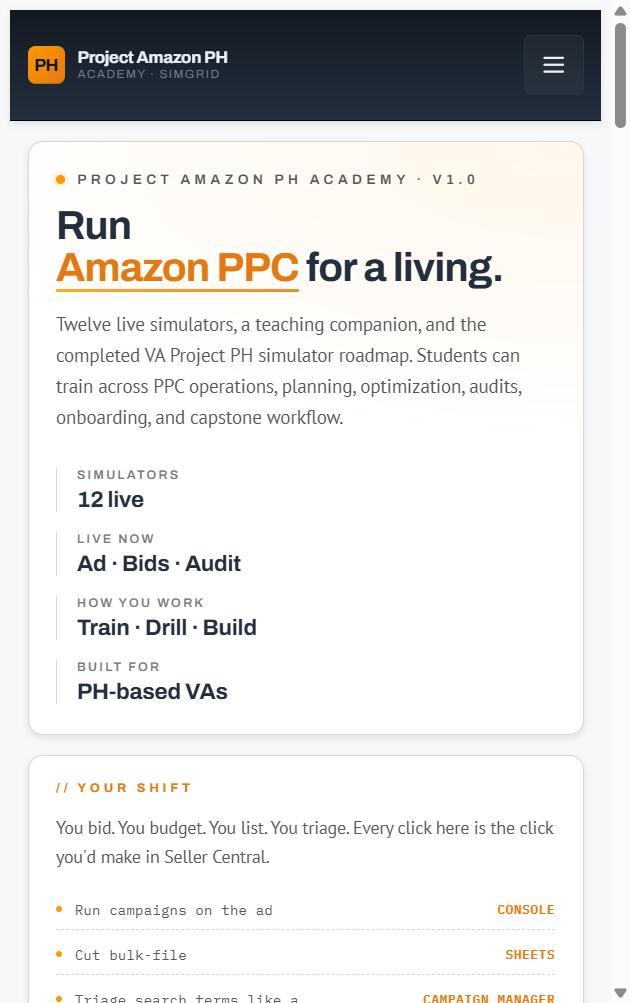
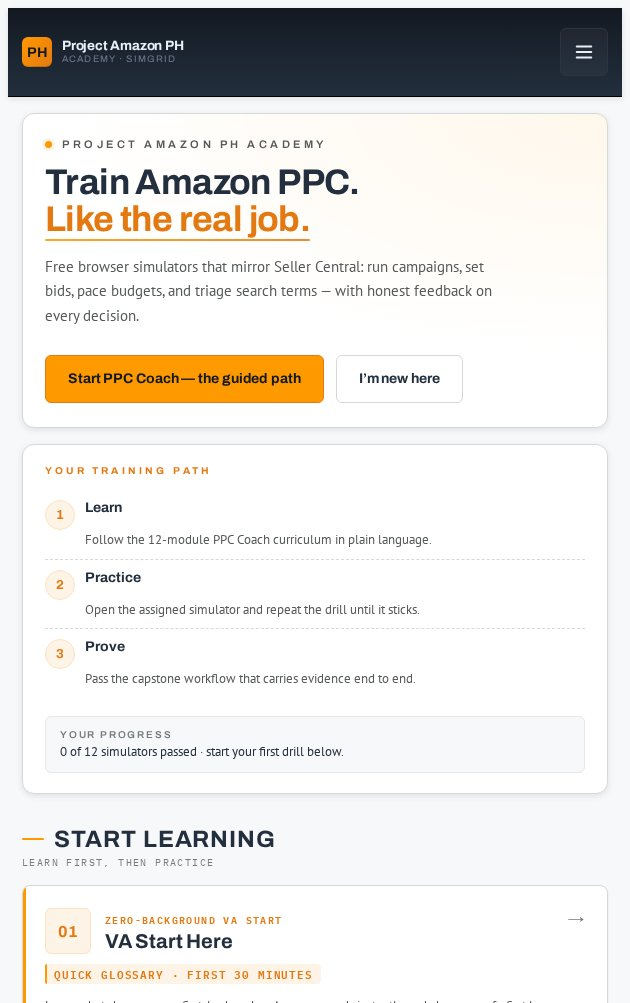
docs: refresh README for the redesigned hub, 1.2.4 installer, and current test baseline

diff --git a/README.md b/README.md
@@ -4,8 +4,8 @@ A multi-page webapp that consolidates twelve live Amazon PPC training simulators
 
 > Train the VAs who run Amazon PPC for a living.
 
-Built from the eight chat-export JSONs in `../`. The extracted simulators now share
-one design-system cascade: central brand tokens, simulator-specific layout CSS, the
+Originally extracted from chat-export prototypes; every page now shares one
+design-system cascade: central brand tokens, simulator-specific layout CSS, the
 unified skin, and the common application shell.
 
 ## Current platform status
@@ -15,7 +15,8 @@ unified skin, and the common application shell.
 - Shared versioned attempt history surfaces Not started, In progress, Passed, best score, and attempt count in Coach and the hub.
 - One tested beginner PPC policy aligns evidence bands, negatives, bid changes, and budget scaling across lessons and simulators.
 - Scenario-bank infrastructure preserves stable simulator progress while recording the selected scenario and rubric versions; Campaign Architect and Account Audit now ship selectable beginner and intermediate packs.
-- `node --test tests/*.test.cjs` is the primary regression command; the current baseline is **95 passing tests**.
+- The hub hero gives new learners one primary call to action (Start PPC Coach) and shows returning learners a live progress summary ("X of 12 simulators passed") from the shared attempt history.
+- `node --test tests/*.test.cjs` is the primary regression command; the current baseline is **338 passing tests** plus a real-browser desktop smoke gate.
 
 ## Design-system architecture
 
@@ -38,8 +39,9 @@ to persistence, escaping, progress recording, focus, reduced motion, and respons
 interaction primitives; they do not define simulator layout.
 
 The shared shell also resolves nested documentation paths, provides mobile navigation,
-maintains 44px touch targets, respects reduced-motion preferences, and inserts a
-keyboard-accessible skip link. Interactive buttons declare their behavior explicitly,
+maintains 44px touch targets and WCAG 2.5.8 minimum sizes on sliders, checkboxes,
+and links, respects reduced-motion preferences, and inserts a keyboard-accessible
+skip link. Interactive buttons declare their behavior explicitly,
 and all brand typography is delivered through the shared font tokens.
 
 ## Product context
@@ -117,7 +119,7 @@ The project is a plain static webapp and also ships as a Windows desktop app.
 
 ### Windows installer
 
-Download `SimGrid-Setup-1.0.3.exe` from the GitHub Actions artifact or the
+Download `SimGrid-Setup-1.2.4.exe` from the GitHub Actions artifact or the
 published release and run it. The installer is per-user, creates a Start Menu
 entry and desktop shortcut, and does not require administrator access by default.
 
@@ -129,8 +131,8 @@ the app.
 | Item | Detail |
 |---|---|
 | App name | Project Amazon PH Academy SimGrid |
-| Current release | `1.0.3` |
-| Installer | `SimGrid-Setup-1.0.3.exe` |
+| Current release | `1.2.4` |
+| Installer | `SimGrid-Setup-1.2.4.exe` |
 | Platform | Windows 10/11, 64-bit |
 | Install type | Per-user; administrator access is not normally required |
 | App identity | `com.projectamazonph.simgrid` |
@@ -190,21 +192,15 @@ not automatically synchronized between different computers or browser profiles.
 | SmartScreen warning | Verify the download source and file checksum; use a signed release when available. |
 | Update is not offered | Confirm the app is packaged, connected to the internet, and the new release includes `latest.yml`. |
 | Progress is missing | Confirm you are using the same Windows account and app identity; do not clear the `%APPDATA%` folder. |
-| External fonts or charts are missing | Connect to the internet; some resources are loaded from CDNs. |
+| External fonts or charts are missing | Rare: all fonts, chart, spreadsheet, and image assets are bundled locally, so the app works fully offline. Reinstall if files were removed. |
 
 ### Run from source
 
 Open the static site three ways:
 
-```powershell
-# 1. Just double-click
-explorer "D:\Web Project\Simulators\webapp\index.html"
-
-# 2. Or via PowerShell
-Start-Process "D:\Web Project\Simulators\webapp\index.html"
-
-# 3. Or serve it (recommended for full font fidelity)
-cd "D:\Web Project\Simulators\webapp"
+```bash
+# 1. Open index.html directly in a browser, or
+# 2. Serve the repo root (recommended for full font fidelity)
 python -m http.server 8080
 # then open http://localhost:8080/
 ```
@@ -218,7 +214,7 @@ Install Node.js 22.12 or newer, then run these commands from the repository root
 ```powershell
 npm install
 npm run start       # launch the desktop wrapper
-npm run dist:win   # create release\SimGrid-Setup-1.0.3.exe
+npm run dist:win   # create release\SimGrid-Setup-1.2.4.exe
 ```
 
 The `Build Windows Installer` workflow in
@@ -249,9 +245,9 @@ the reset controls inside SimGrid will still remove progress.
 
 The wrapper loads the same local HTML, CSS, JavaScript, and learning materials as
 the browser version. Student progress continues to use the browser's local storage,
-now scoped to the installed SimGrid app. The pages still use their existing CDN
-font, chart, spreadsheet, and image references, so an internet connection is needed
-for those external resources when they are not already cached.
+now scoped to the installed SimGrid app. All fonts, vendored libraries (Tailwind,
+Chart.js, SheetJS), and artwork are bundled locally, so the installed app works
+fully offline with zero network requests on a cold page load.
 
 ---
 
@@ -259,7 +255,12 @@ for those external resources when they are not already cached.
 
 | # | Page | File | What it does |
 |---|------|------|--------------|
-| — | **Hub** | `index.html` | Control grid - links to all live tools, simulator roadmap, mission panel, principles |
+| — | **Hub** | `index.html` | Redesigned landing page: hero with guided-path CTA and live progress summary, simulator library, learning resources, and operating principles |
+| — | **VA Start Here** | `start-here.html` | Zero-background onboarding: first-30-minutes plan, plain-English quick glossary with search and filters, safe first lessons, and a Fil-English guided tour of every site section |
+| — | **PPC Profitability Lab** | `ppc-profitability-lab.html` | Profitability simulator connecting clicks, CPC, margins, and volume to real net-profit decisions |
+| — | **Learn & Docs** | `learn/index.html` | Curriculum hub: 12-module overview, student guide, feature docs, handouts, and downloads |
+| — | **Coach Tools** | `coach-tools.html` | Instructor kit: animated teaching decks per module plus debrief aids and downloadable templates |
+| — | **Coach Resource Library** | `coach-resource-library.html` | Downloadable workbooks, module field kits, and classroom assets |
 | — | **Simulator Roadmap** | `planned-simulators.html` | Roadmap copied from `va-project-ph` docs 36-42 for imported simulator builds |
 | 1 | **AdConsole Pro** | `ad-console.html` | Amazon Sponsored Ads console replica — campaigns, ad groups, keywords, search terms, hour-by-hour auction simulation |
 | 2 | **Keyword Lab** | `keyword-lab.html` | Keyword research training: playbooks, practice drills, search-term audits, 12-question certification exam |
